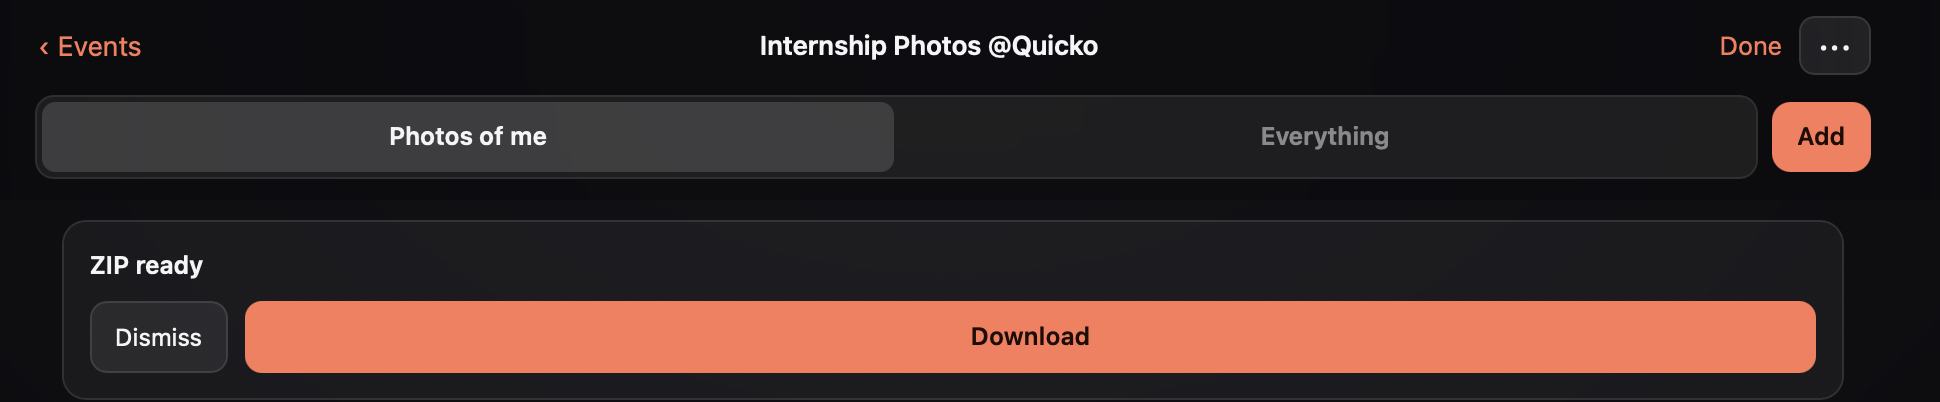
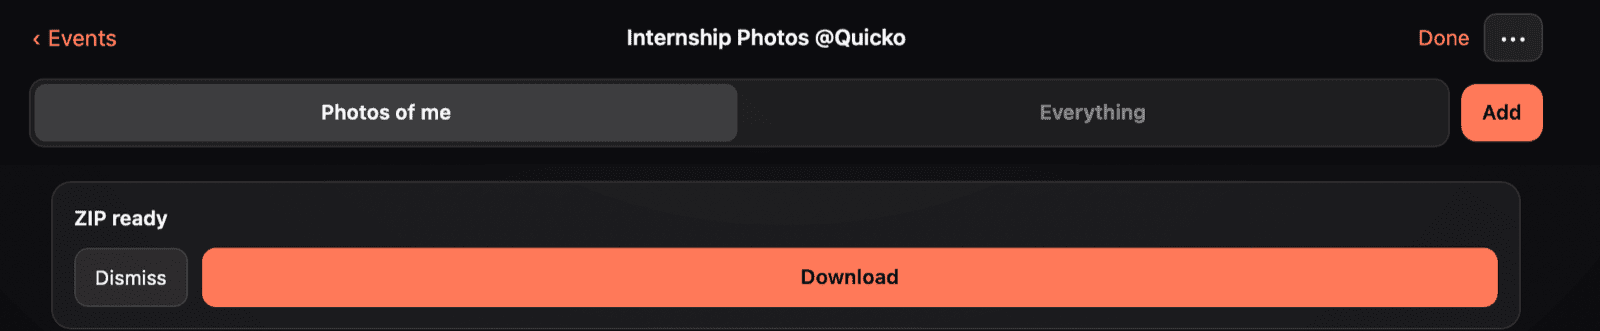
fix: README.md assets sizes

diff --git a/README.md b/README.md
@@ -55,37 +55,55 @@ It's built entirely on serverless AWS: no servers to provision or patch, nothing
 
 ## Product walkthrough
 
-| Sign up | Log in |
-|---|---|
-| ![Sign up](assets/product/sign-up.png) | ![Log in](assets/product/login.png) |
+**Sign up & log in**
 
-| Sharing an event (join code / QR) | Joining an event |
-|---|---|
-| ![Share event](assets/product/share-event.png) | ![Join event](assets/product/join-event.png) |
+<p align="center">
+  <img src="assets/product/sign-up.png" width="430" alt="Sign up" />
+  <img src="assets/product/login.png" width="430" alt="Log in" />
+</p>
 
-| Attendee lobby (admit/deny) | Organizer's events dashboard |
-|---|---|
-| ![Event lobby, admitting an attendee](assets/product/event-lobby-admit.png) | ![Events dashboard](assets/product/events-dashboard.png) |
+**Sharing and joining an event**
 
-| Event analytics | Event settings |
-|---|---|
-| ![Event analytics](assets/product/event-analytics.png) | ![Event settings](assets/product/event-settings.png) |
+<p align="center">
+  <img src="assets/product/share-event.png" width="260" alt="Sharing an event via join code / QR" />
+  <img src="assets/product/join-event.png" width="260" alt="Joining an event" />
+  <img src="assets/product/event-lobby-admit.png" width="260" alt="Attendee lobby, admitting an attendee" />
+</p>
 
-| Privacy controls | Uploading photos |
-|---|---|
-| ![Privacy](assets/product/privacy.png) | ![Uploading photos](assets/product/uploading.png) |
+**Organizer dashboard**
 
-| Photos added | Event gallery |
-|---|---|
-| ![Photos added](assets/product/photos-added.png) | ![Event gallery](assets/product/gallery.png) |
+<p align="center">
+  <img src="assets/product/events-dashboard.png" width="430" alt="Organizer's events dashboard" />
+  <img src="assets/product/event-analytics.png" width="430" alt="Event analytics" />
+</p>
 
-| Photos of me | Downloading as a ZIP |
-|---|---|
-| ![Photos of me](assets/product/photos-of-me.png) | ![Download as ZIP](assets/product/download-zip.png) |
+**Event settings & privacy**
 
-| Profile |
-|---|
-| ![Profile](assets/product/profile.png) |
+<p align="center">
+  <img src="assets/product/privacy.png" width="430" alt="Privacy controls" />
+  <img src="assets/product/download-zip.png" width="430" alt="Downloading photos as a ZIP" />
+</p>
+
+**Uploading photos**
+
+<p align="center">
+  <img src="assets/product/uploading.png" width="260" alt="Uploading photos" />
+  <img src="assets/product/photos-added.png" width="260" alt="Photos added" />
+  <img src="assets/product/event-settings.png" width="260" alt="Event settings" />
+</p>
+
+**The gallery and "Photos of me"**
+
+<p align="center">
+  <img src="assets/product/gallery.jpg" width="380" alt="Event gallery" />
+  <img src="assets/product/photos-of-me.jpg" width="380" alt="Photos of me" />
+</p>
+
+**Profile**
+
+<p align="center">
+  <img src="assets/product/profile.png" width="260" alt="Profile" />
+</p>
 
 ---
 
